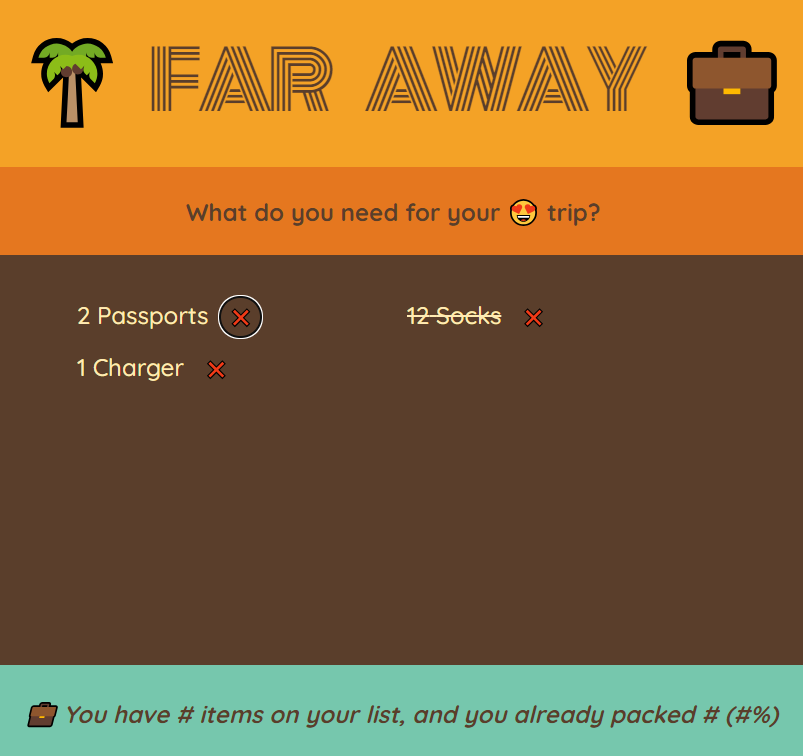
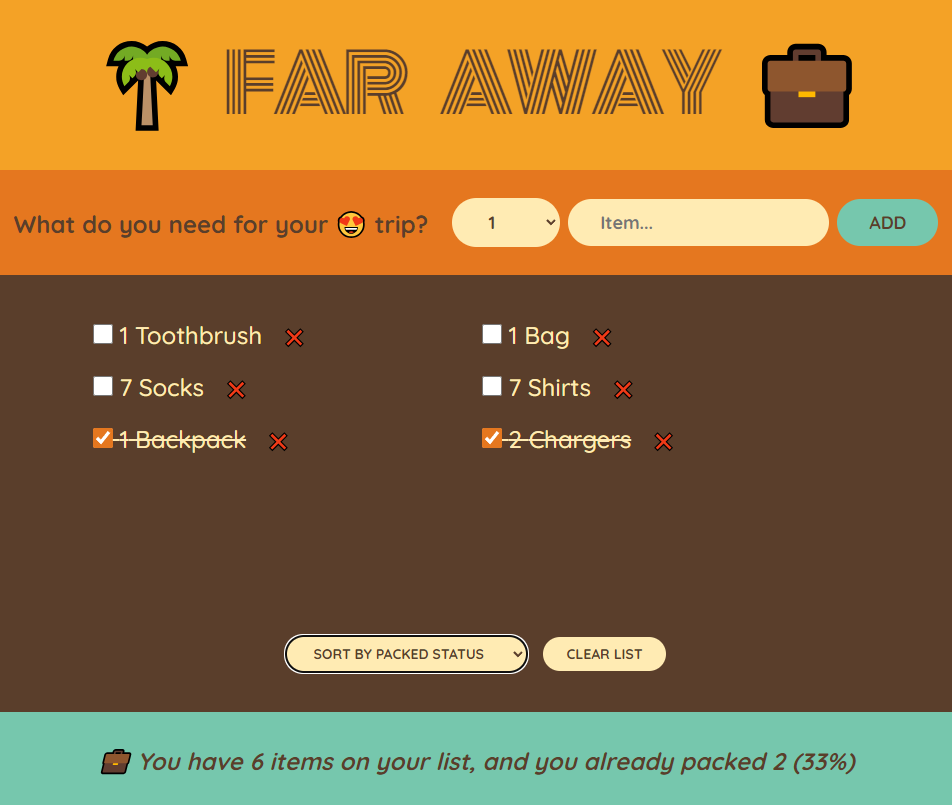
Finished app

diff --git a/src/components/PackingList.js b/src/components/PackingList.js
@@ -1,0 +1,49 @@
+import { useState } from "react";
+import Item from "./Item";
+
+export default function PackingList({
+  items,
+  onDeleteItem,
+  onToggleItem,
+  onClearList,
+}) {
+  const [sortBy, setSortBy] = useState("input");
+
+  let sortedItems;
+
+  if (sortBy === "input") sortedItems = items;
+
+  if (sortBy === "description")
+    sortedItems = items
+      .slice()
+      .sort((a, b) => a.description.localeCompare(b.description));
+
+  if (sortBy === "packed")
+    sortedItems = items
+      .slice()
+      .sort((a, b) => Number(a.packed) - Number(b.packed));
+
+  return (
+    <div className="list">
+      <ul>
+        {sortedItems.map((item) => (
+          <Item
+            item={item}
+            onDeleteItem={onDeleteItem}
+            onToggleItem={onToggleItem}
+            key={item.id}
+          />
+        ))}
+      </ul>
+
+      <div className="actions">
+        <select value={sortBy} onChange={(e) => setSortBy(e.target.value)}>
+          <option value="input">Sort by input order</option>
+          <option value="description">Sort by description</option>
+          <option value="packed">Sort by packed status</option>
+        </select>
+        <button onClick={onClearList}>Clear List</button>
+      </div>
+    </div>
+  );
+}

diff --git a/src/components/Form.js b/src/components/Form.js
@@ -1,0 +1,43 @@
+import { useState } from "react";
+
+export default function Form({ onAddItems }) {
+  const [description, setDescription] = useState("");
+  const [quantity, setQuantity] = useState(1);
+
+  function handleSubmit(e) {
+    e.preventDefault();
+
+    if (!description) return;
+
+    // Create new item, then add it to items state
+    const newItem = { description, quantity, packed: false, id: Date.now() };
+    onAddItems(newItem);
+
+    // Reset form state data
+    setDescription("");
+    setQuantity(1);
+  }
+
+  return (
+    <form className="add-form" onSubmit={handleSubmit}>
+      <h3>What do you need for your 😍 trip?</h3>
+      <select
+        value={quantity}
+        onChange={(e) => setQuantity(Number(e.target.value))}
+      >
+        {Array.from({ length: 20 }, (_, i) => i + 1).map((num) => (
+          <option value={num} key={num}>
+            {num}
+          </option>
+        ))}
+      </select>
+      <input
+        type="text"
+        placeholder="Item..."
+        value={description}
+        onChange={(e) => setDescription(e.target.value)}
+      />
+      <button>Add</button>
+    </form>
+  );
+}

diff --git a/src/components/App.js b/src/components/App.js
@@ -1,0 +1,46 @@
+import { useState } from "react";
+import Logo from "./Logo";
+import Form from "./Form";
+import PackingList from "./PackingList";
+import Stats from "./Stats";
+
+export default function App() {
+  const [items, setItems] = useState([]);
+
+  function handleAddItems(item) {
+    setItems((items) => [...items, item]);
+  }
+
+  function handleDeleteItem(id) {
+    setItems((items) => items.filter((item) => item.id !== id));
+  }
+
+  function handleToggleItem(id) {
+    setItems((items) =>
+      items.map((item) =>
+        item.id === id ? { ...item, packed: !item.packed } : item
+      )
+    );
+  }
+
+  function handleClearList() {
+    const confirmed = items.length
+      ? window.confirm("Are you sure you want to delete all items?")
+      : false;
+    if (confirmed) setItems([]);
+  }
+
+  return (
+    <div className="app">
+      <Logo />
+      <Form onAddItems={handleAddItems} />
+      <PackingList
+        items={items}
+        onDeleteItem={handleDeleteItem}
+        onToggleItem={handleToggleItem}
+        onClearList={handleClearList}
+      />
+      <Stats items={items} />
+    </div>
+  );
+}

diff --git a/src/components/Stats.js b/src/components/Stats.js
@@ -1,0 +1,21 @@
+export default function Stats({ items }) {
+  if (!items.length)
+    return (
+      <p className="stats">
+        <em>Start adding some items to your packing list 🚀</em>
+      </p>
+    );
+  const numItems = items.length;
+  const numPacked = items.filter((item) => item.packed).length;
+  const percentage = Math.round((numPacked / numItems) * 100);
+
+  return (
+    <footer className="stats">
+      <em>
+        {percentage === 100
+          ? "You got everything! Ready to go ✈"
+          : `💼 You have ${numItems} items on your list, and you already packed ${numPacked} (${percentage}%)`}
+      </em>
+    </footer>
+  );
+}

diff --git a/src/components/Item.js b/src/components/Item.js
@@ -1,0 +1,18 @@
+export default function Item({ item, onDeleteItem, onToggleItem }) {
+  return (
+    <li>
+      <label>
+        <input
+          type="checkbox"
+          value={item.packed}
+          onChange={() => onToggleItem(item.id)}
+        />
+        <span style={item.packed ? { textDecoration: "line-through" } : {}}>
+          {" "}
+          {item.quantity} {item.description}
+        </span>
+      </label>
+      <button onClick={() => onDeleteItem(item.id)}>❌</button>
+    </li>
+  );
+}

diff --git a/src/index.js b/src/index.js
@@ -1,7 +1,7 @@
 import React from "react";
 import ReactDOM from "react-dom/client";
 import "./index.css";
-import App from "./App";
+import App from "./components/App";
 
 const root = ReactDOM.createRoot(document.getElementById("root"));
 root.render(

diff --git a/src/components/Logo.js b/src/components/Logo.js
@@ -1,0 +1,3 @@
+export default function Logo() {
+  return <h1>🌴 Far Away 💼</h1>;
+}

diff --git a/README.md b/README.md
@@ -1,7 +1,9 @@
 # Travel List
 
-Simple app practicing with state, controlled forms, event handlers, rendering lists, and more.
+Travel packing list App. User can add items of custom quantity, delete individual items, check "packed", sort items, and clear entire list.
+
+Utilized functional components, passing props, using state, deriving state, event handlers, controlled forms, and more.
 
 <p align="center">
-  <img width="75%" src="readme.png" alt="App">
+  <img width="85%" src="readme.png" alt="App">
 </p>
